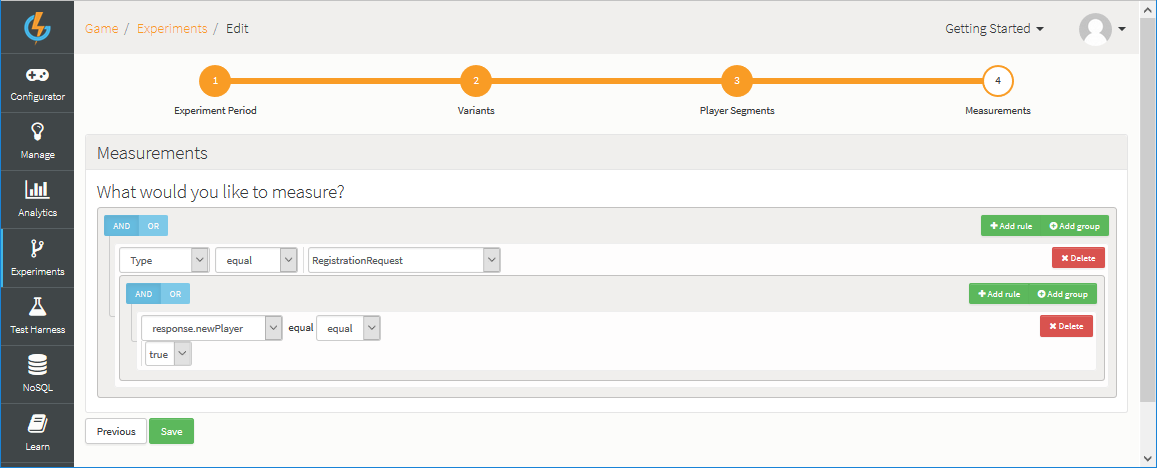
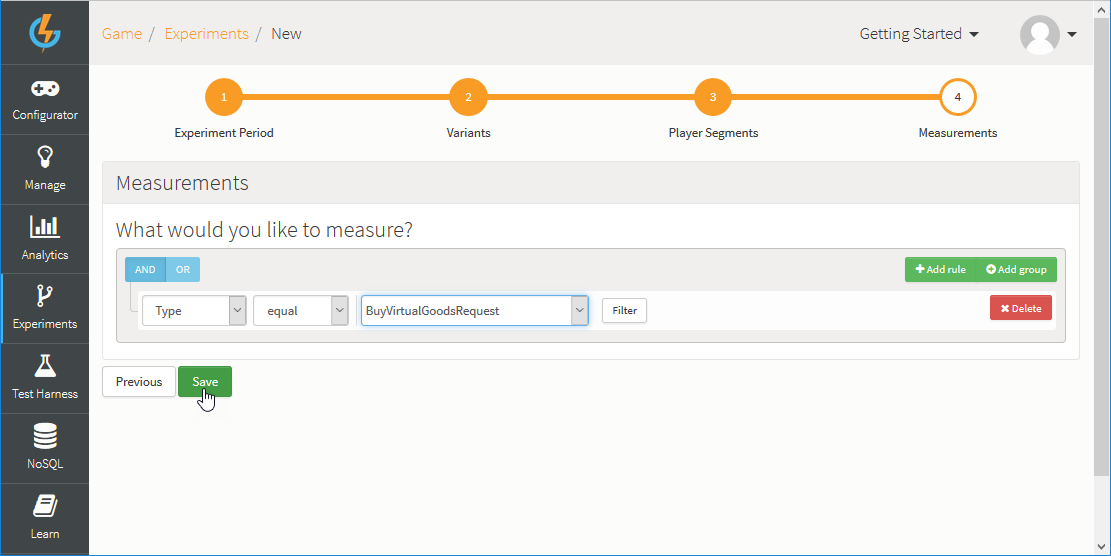
NEW UI Updates - new Experiments topic

diff --git a/MARKDOWN/Documentation/Experiments/README.md b/MARKDOWN/Documentation/Experiments/README.md
@@ -19,7 +19,7 @@ This is the page where you can create and manage your Experiments Screen:
 
 ## Adding and Configuring an Experiment
 
-When you click to *Add* an upcoming experiment, you are taken through a series of four steps to build the experiment's configuration:
+When you click to *Add* an Upcoming Experiment, you're taken through a series of four steps to build the Experiment's configuration:
 
 *1.* On the *Upcoming Experiments* panel, click to *Add* a new Experiment. The page adjusts step 1 - *Experiment Period*:
 
@@ -37,7 +37,7 @@ Use this second step to select what you want to vary for the purpose of the Expe
 * In this example, we've added *GOLD_COIN* and *SILVER_COIN* Virtual Goods as experimental variants.
 * For both, we've selected the *Currency 1* and *Currency 2* fields.
 
-*3.* Click *Next*. You are taken to step 3 - *Player Segments*:
+*3.* Click *Next*. You are taken to step 3 - *Player Pool & Variant Config*:
 
 ![](img/Experiments/10.png)
 
@@ -51,47 +51,34 @@ You can use this step to configure several aspects of the Experiment:
     * In this example, we've added two percentile ranges.
   * Give the *Variants* a name, which will be visible only to those players to which the Experiment is applied.
   * Set the alternative values for the Variant fields we selected for each of the Variants we added to the Experiment in step 2.
-    * In this example, we increase both the Gold and Silver coin values for Currencies 1 and 2.
+    * In this example:
+      * For the *50-60* percentile range of the player pool we've *decreased* both the Gold and Silver coin values for Currencies 1 and 2 (as seen above).
+      * For the *5-15* percentile range of the player pool, we've *increased* both the Gold and Silver coin values for Currencies 1 and 2:
 
-These combined settings are designed to ensure that when your Experiment is run, the set of players to which the Experiment is applied is a randomly chosen set. Any behavioral changes observed in the players subjected to the Experiment with respect to the Variants - here Virtual Goods whose currency values have been increased - are therefore less likely to be biased and unrepresentative. This means, in turn, that any decisions you make for *actual changes* you go on to make to your game configuration and which are based on experimental outcomes are much more likely to be predictive of the general behavior of your full game player pool in reaction to these actual changes.
+![](img/Experiments/10A.png)
+
+These combined settings are designed to ensure that when your Experiment is run, the set of players to which the Experiment is applied is a randomly chosen set. Any behavioral changes observed in the players subjected to the Experiment with respect to the Variants - here Virtual Goods whose currency values have been increased or decreased - are therefore less likely to be biased and unrepresentative. This means, in turn, that any decisions you make for *actual changes* you go on to make to your game configuration and which are based on experimental outcomes are much more likely to be predictive of the general behavior of your full game player pool in reaction to these actual changes.
+
+<q>**Note:** We make a best effort to calculate the percentage ranges, however for smaller sample sets of players you might not be returned the exact number of players as anticipated.</q>
 
 *4.* Click *Next*. You are taken to step 4 - *Measurements*:
 
 ![](img/Experiments/11.png)
 
+In this example, we want to measure the number of *BuyVirtualGoodsRequest* calls made by the players chosen for the Experiment during the period of the Experiment.
 
+*5.* Click to *Save* the Experiment. The new Experiment is added to the *Upcoming Experiments* panel.
 
-ORIG >>>>
+![](img/Experiments/12.png)
 
-Adding a new Experiment brings up a new form:
+This shows the *Start* and *End* date you have configured for the Experiment and under *Actions* there are several options:
+* ![](/img/icons/starticon.png) - Manually start the Experiment.
+* ![](/img/icons/editicon.png) - Edit the Experiment:
+  * You can step through the 4 configuration steps and save your changes at each step.
+  * You cannot edit an Experiment after it has started.
+* ![](/img/icons/copyicon.png) - Copy the Experiment.
+* ![](/img/icons/publishicon.png) - Publish the Experiment.
 
-![](img/Experiments/3.png)
-
-The form is very detailed, but divided into sections – Configuration, Player Base, Variant Configuration and Measurements.
-
-## Experiment Configuration
-
-*Name* - The Name field is a mandatory field used to describe the Experiment but does not uniquely identify it.
-
-*Start Date* – Start date and time for the Experiment to start.
-
-*End Date* - Time and date for the Experiment to end.
-
-*Percentage Hash* - This field is optional. If you supply it, the value is used as part of the hashing calculation when we determine which percentile each Player is randomly provided. The longer and more unique the value is, the higher likelihood that the randomisation of the Player and the percentile is.  For example, If you want to run two Experiments and be sure that the same Player for both the 1st and 2nd experiment has the same percentile, you should set this hash value to be the same on each experiment
-
-<q>**Note:** We make a best effort to calculate the percentage ranges, however for smaller sample sets of players, you may not be returned the exact number of Players as anticipated.</q>
-
-## Player Base Configuration
-
-*User Query* - The search criteria required for Player results.
-
-## Variant Configuration
-
-*Name* - A description of the variant.
-
-*From/To %* - The percentile range of the Player results, from which the Experiment participants will be chosen.  For example, of the Players returned in the User Query results, those  assigned the 0 to 50 percentiles, are part of this variant of the Experiment.  Other variants could be created for 51 to 75 and 76 to 100, to maximize coverage of the Player results across all the variants of the Experiment.
-
-*Variant Data* – Here, you can select the configuration that will be part of the Experiment.  You can give it a discernible name that will be visible only to those who are part of the Experiment, as well as the differing configuration values.
 
 ## Measurements
 
@@ -99,9 +86,11 @@ The form is very detailed, but divided into sections – Configuration, Player B
 
 
 ## Starting / Stopping Experiments
+
 Experiments will either start at their scheduled time or can be started immediately using the Play button.  Similarly, they can also be stopped using the Stop button. NOTE:  Once Experiments have been created or have passed their Start Date, they cannot be edited.  They can, however, be modified up until that Start Date. All stopped or expired Experiments will move to the Complete section.
 
-## Viewing the Results
+## Viewing Experiment Results
+
 Once your Experiment has completed, you can check the results of your Experiment and the impact it has had on the pool of Players who were affected by this Experiment:
 
 ![](img/Experiments/4.png)
